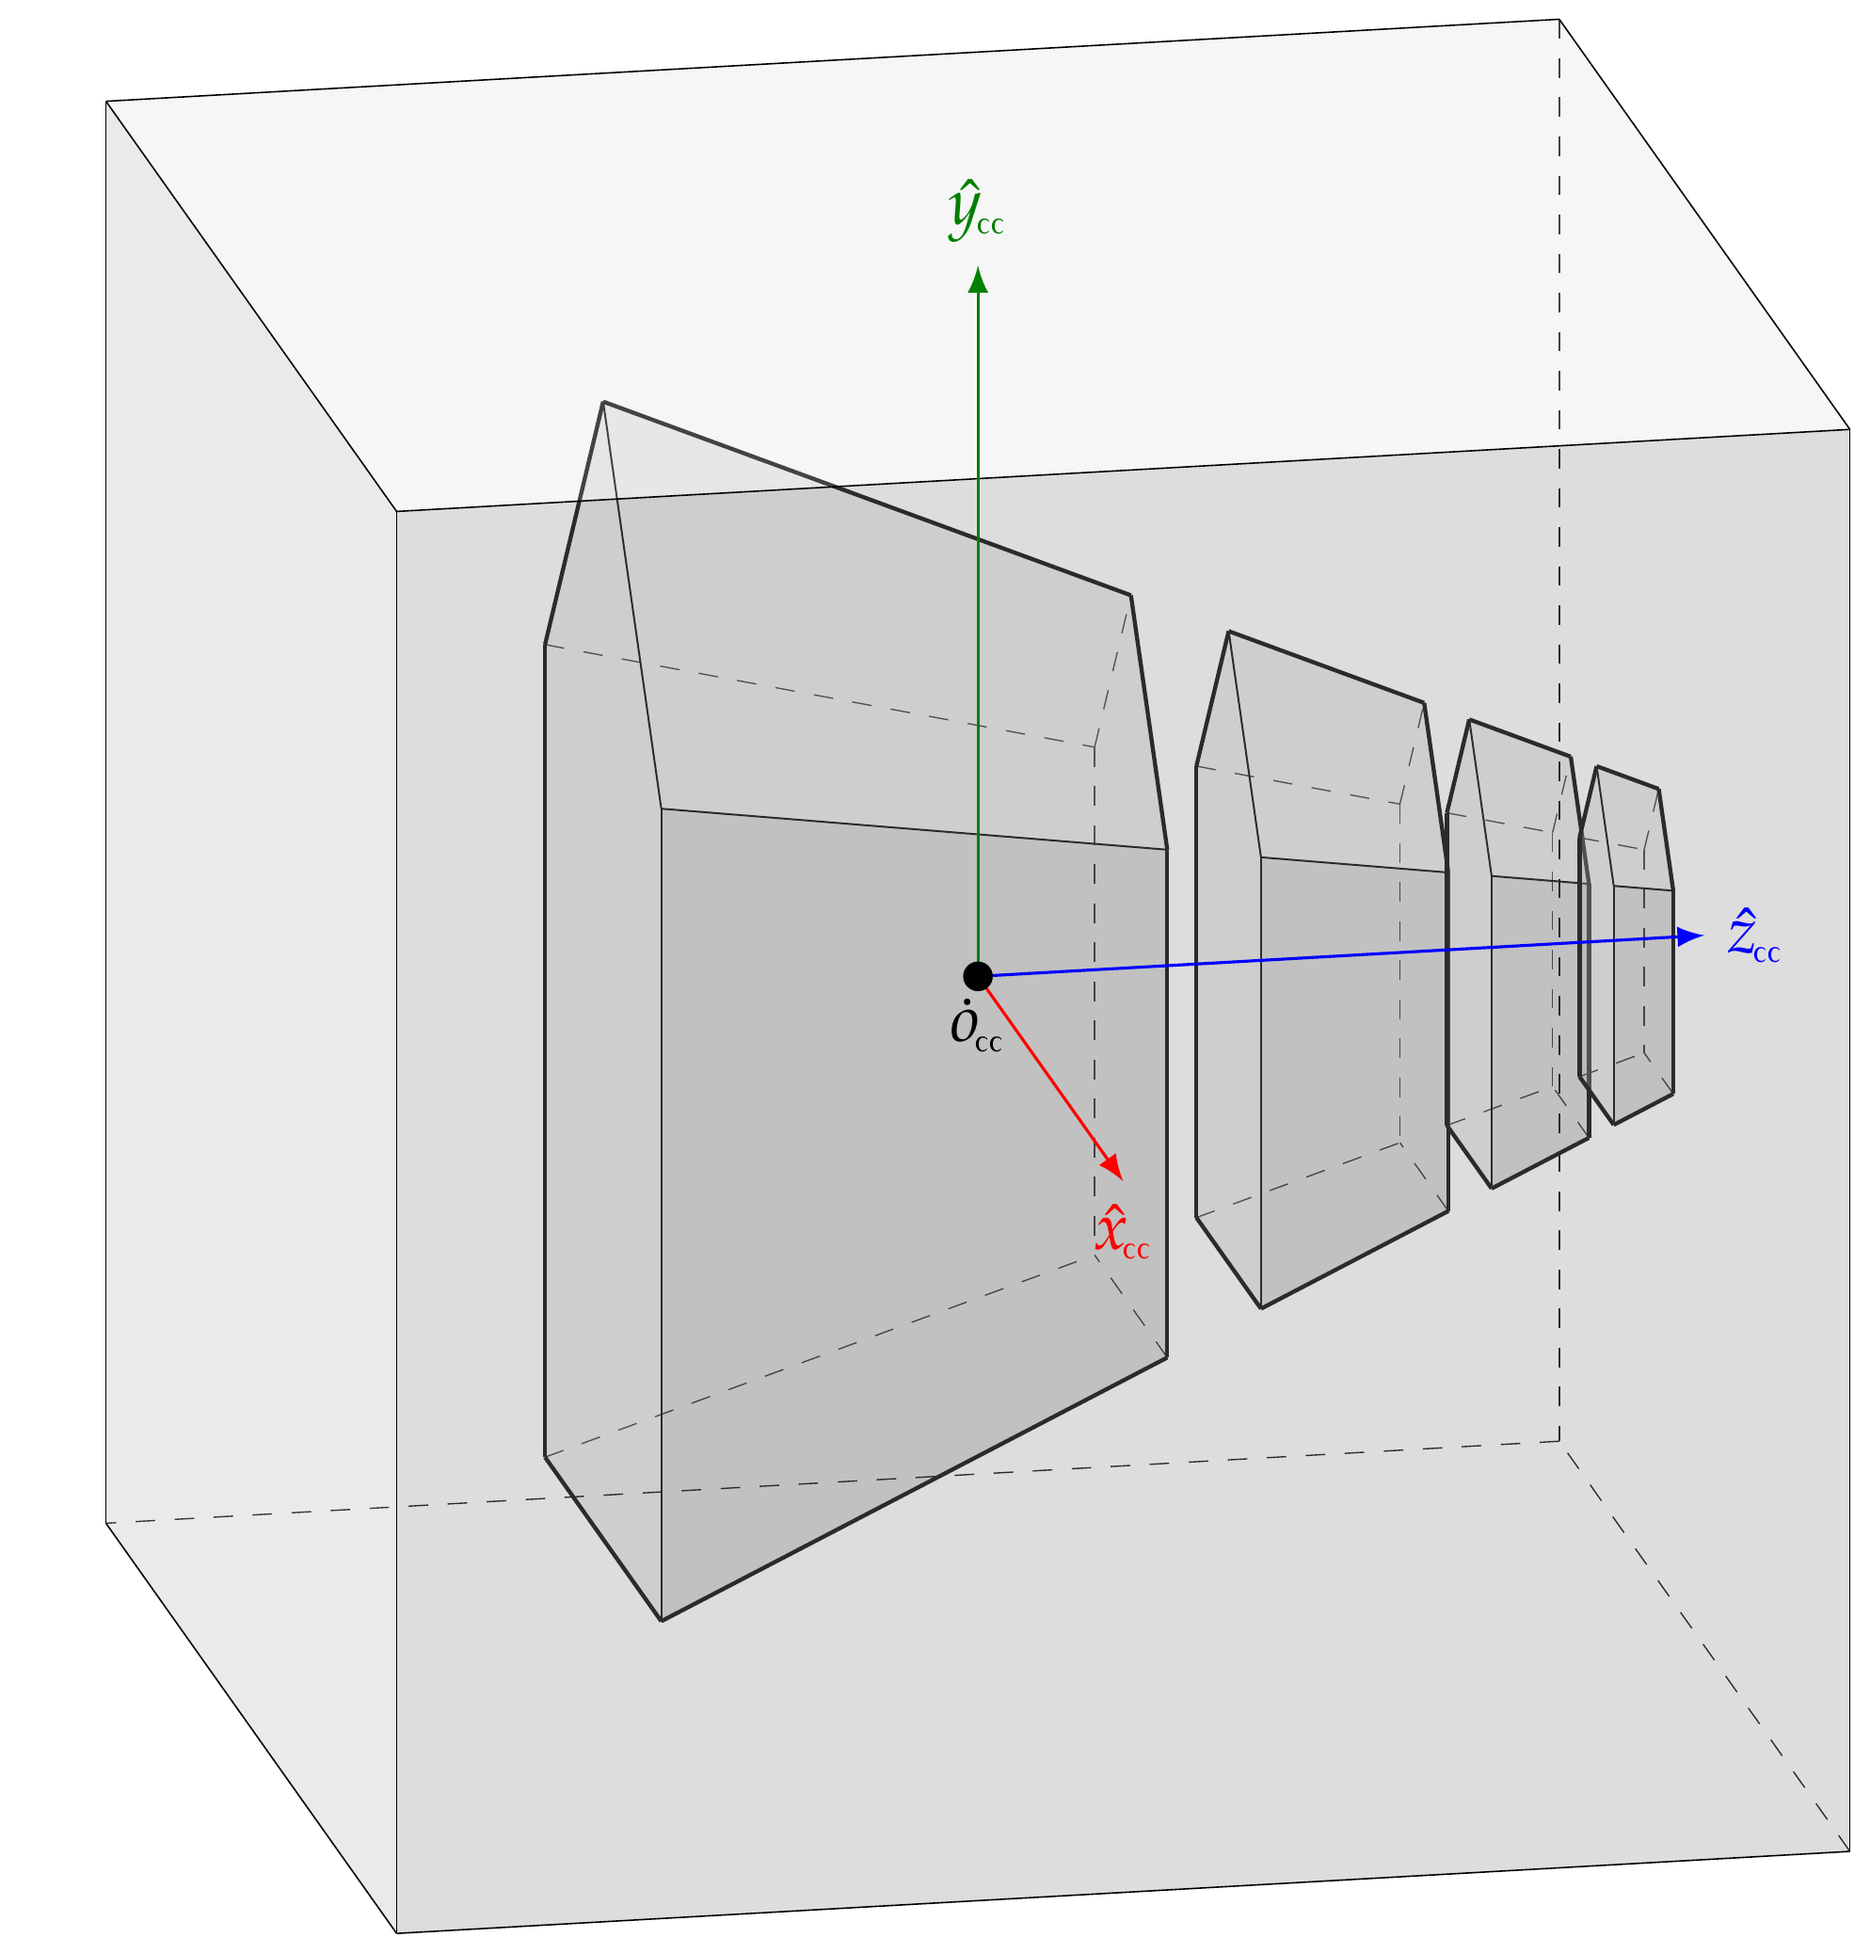
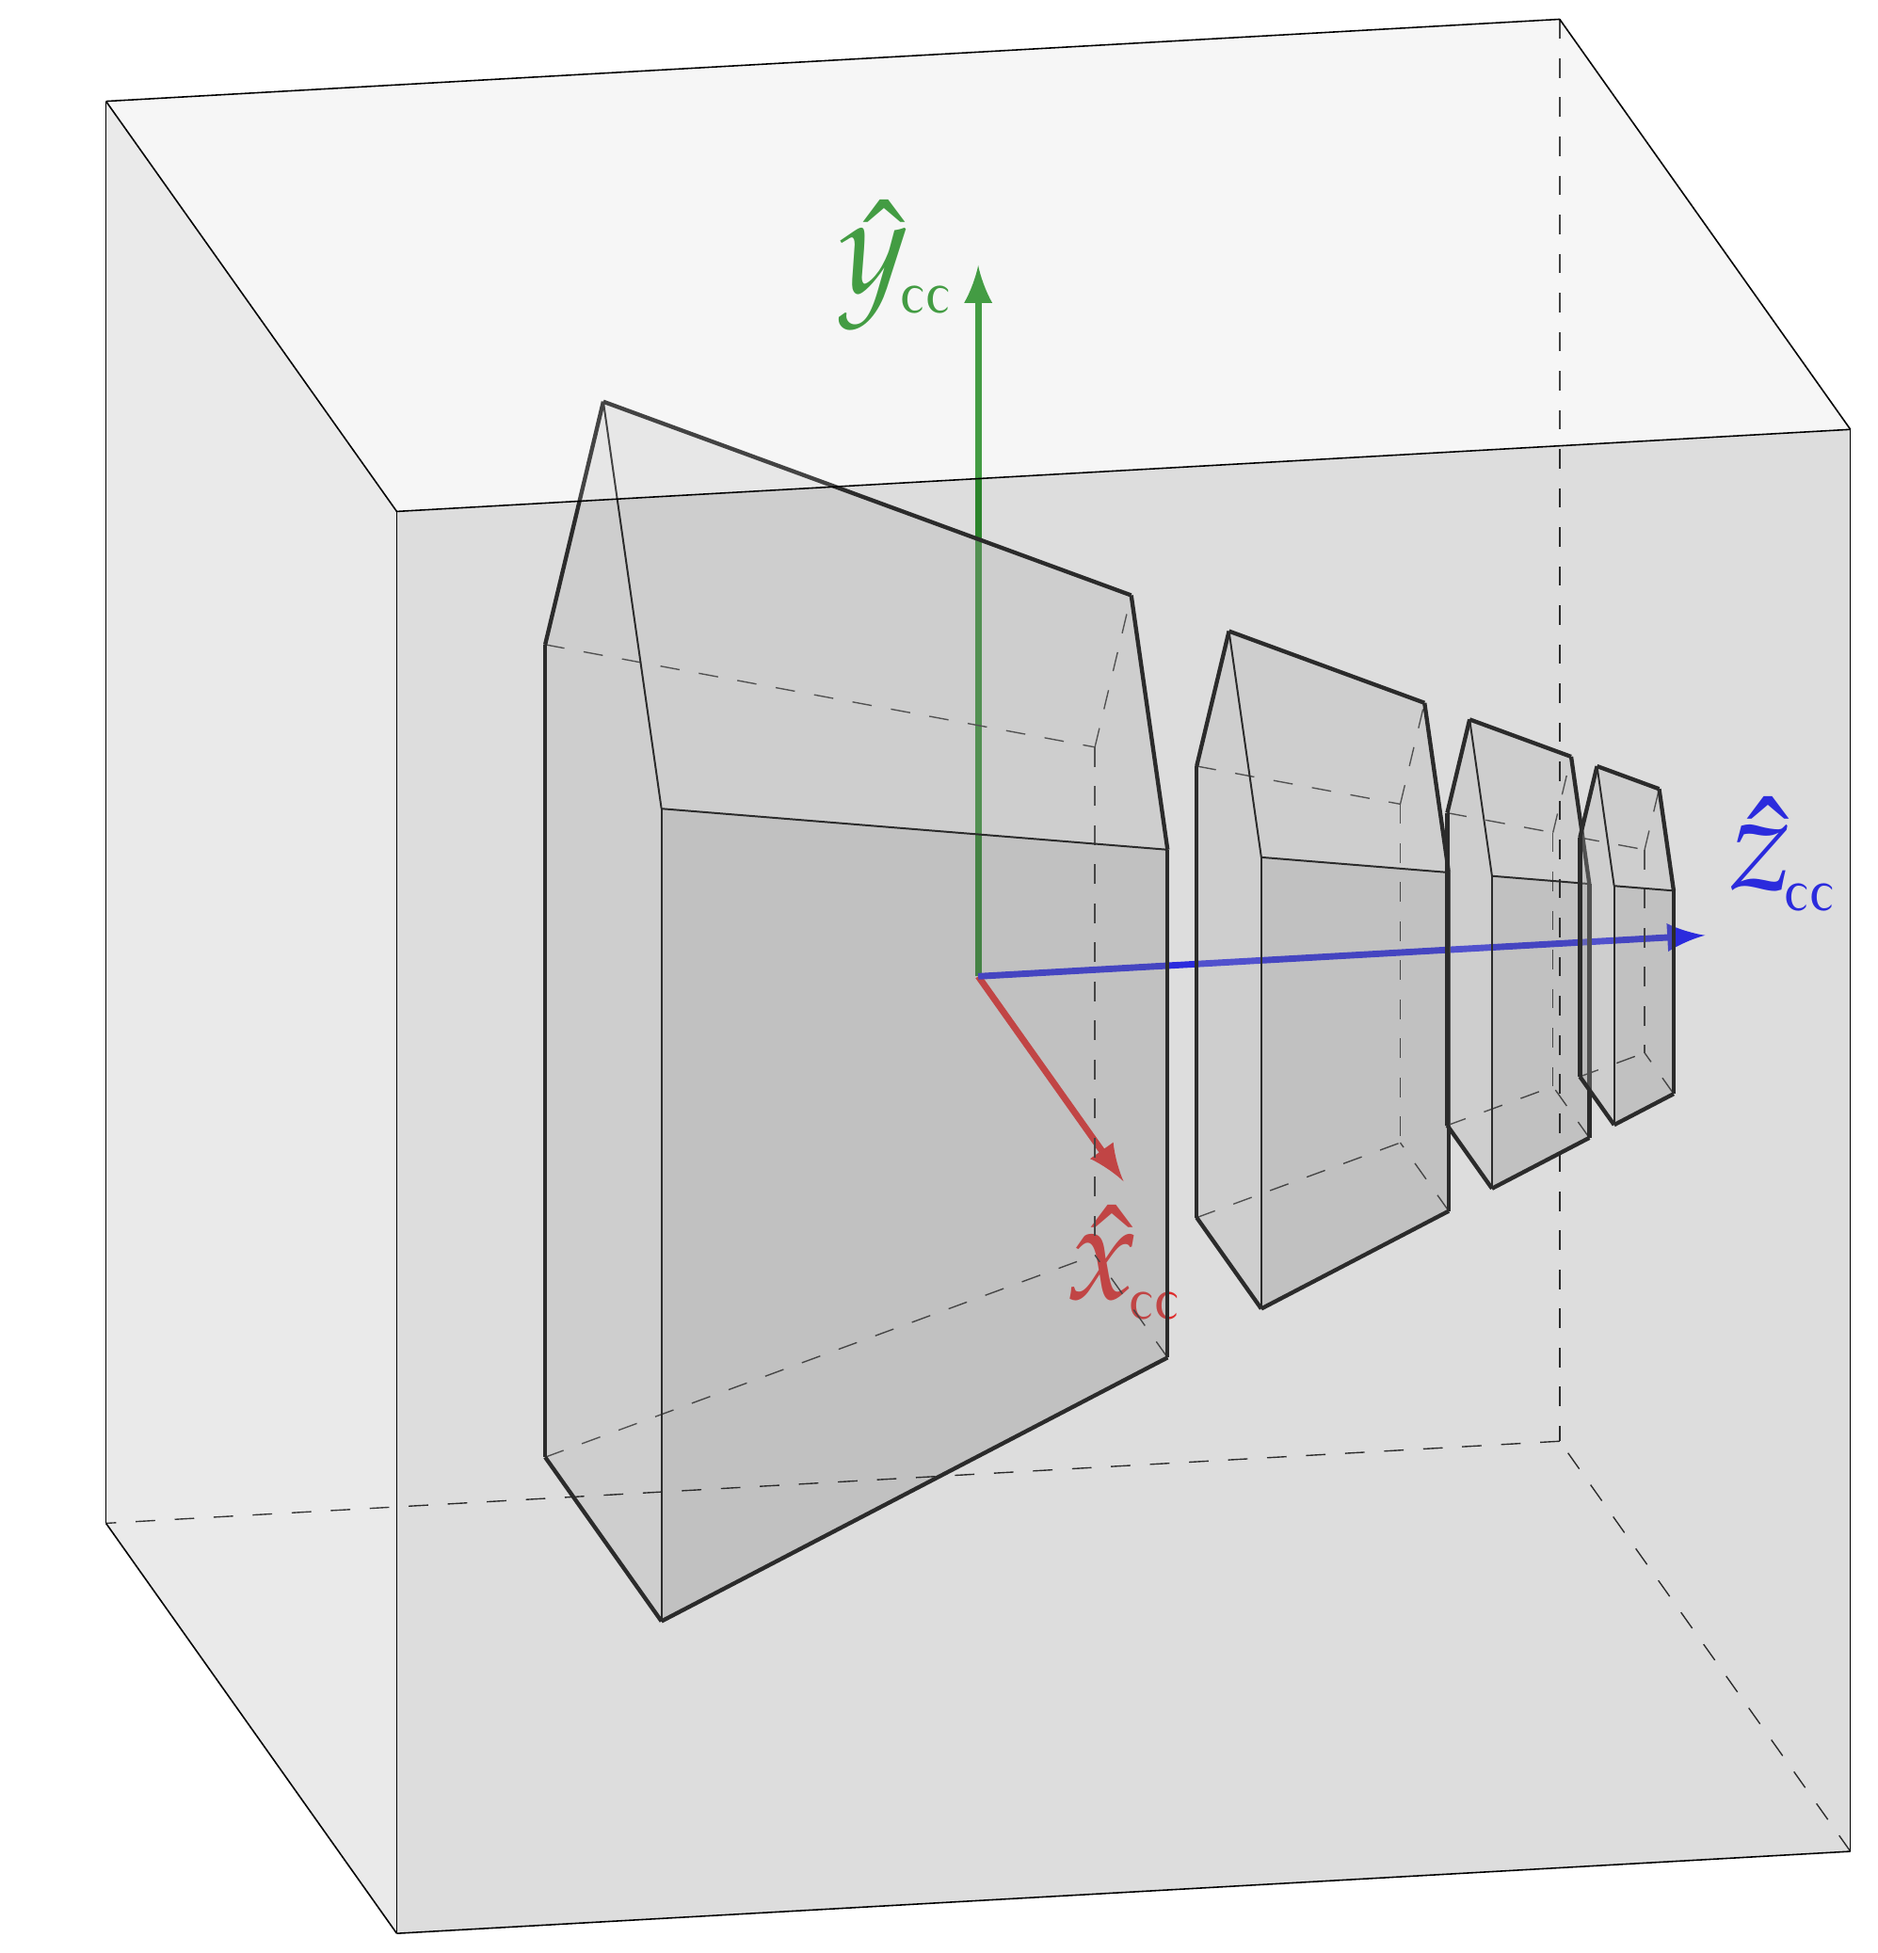
updated figs 9 and 10, minor adjustments

diff --git a/src/fig10-ndc-dc.cpp b/src/fig10-ndc-dc.cpp
@@ -35,17 +35,17 @@ int main( int argc, char *argv[] )
    cubo_cc.draw_style_2( view_vec );
    
    // draw DC grid 
-   const unsigned nx = 8, ny = 8 ;
+   const unsigned nx = 6, ny = 6 ;
 
    for( unsigned ix = 0 ; ix <= nx ; ix++ )
    {
       const float cx = -1.0+2.0*(float(ix)/float(nx)) ;
-      line( {cx,-1.0,+1.0}, {cx,+1.0,+1.0}, "line width=0.1mm,color=black", "" );
+      line( {cx,-1.0,+1.0}, {cx,+1.0,+1.0}, "line width=0.12mm,color=black", "" );
    }
    for( unsigned iy = 0 ; iy <= ny ; iy++ )
    {
       const float cy = -1.0+2.0*(float(iy)/float(ny)) ;
-      line( {-1.0,cy,+1.0}, {+1.0,cy,+1.0}, "line width=0.1mm,color=black", "" );
+      line( {-1.0,cy,+1.0}, {+1.0,cy,+1.0}, "line width=0.12mm,color=black", "" );
    }
 
    for( unsigned ix = 0 ; ix < nx ; ix++ )
@@ -62,25 +62,25 @@ int main( int argc, char *argv[] )
 
    // draw dc axes 
    const float lx = 2.0/nx, ly = 2.0/ny ;
-   const std::string subscript = "{\\mbox{\\tiny\\!dc}}" ;
-   const std::string lw = "line width=0.22mm" ;
+   const std::string subscript = "{\\small\\mbox{\\!dc}}" ;
+   const std::string lw = "line width=0.35mm" ;
 
    
-   line( {-1.0,-1.0,1.0}, {-1.0+lx,-1.0,1.0}, "->,>=latex,color=red," +lw, "node[below] {$\\vux_" + subscript + "$}" );
-   line( {-1.0,-1.0,1.0}, {-1.0,-1.0+ly,1.0}, "->,>=latex,color=green!50!black," +lw , "node[left] {$\\vuy_" + subscript + "$}" );
-   line( {-1.0,-1.0,1.0}, {-1.0,-1.0,-1.0}, "->,>=latex,color=blue," +lw , "node[left] {$\\vuz_" + subscript + "$}" );
+   line( {-1.0,-1.0,1.0}, {-1.0+lx,-1.0,1.0}, "->,>=latex,color=red," +lw, "node[below] {\\huge$\\vux_" + subscript + "$}" );
+   line( {-1.0,-1.0,1.0}, {-1.0,-1.0+ly,1.0}, "->,>=latex,color=green!50!black," +lw , "node[left] {\\huge$\\vuy_" + subscript + "$}" );
+   line( {-1.0,-1.0,1.0}, {-1.0,-1.0,-1.0}, "->,>=latex,color=blue," +lw , "node[above right] {\\huge$\\vuz_" + subscript + "$}" );
    //disk( {-1.0,-1.0,1.0}, "black", "radius=0.2mm", " node[anchor=north east] {$\\pto_" + subscript + "$}" );
 
 
-   disk( {-1.0,-1.0,1.0}, "blue", "radius=0.2mm", " node[anchor=north east] {$(0,0,0)$}" );
-   disk( {+1.0,-1.0,1.0}, "blue", "radius=0.2mm", " node[anchor=north west] {$(n_x,0,0)$}" );
-   disk( {-1.0,+1.0,1.0}, "blue", "radius=0.2mm", " node[anchor=south east] {$(0,n_y,0)$}" );
-   disk( {+1.0,+1.0,1.0}, "blue", "radius=0.2mm", " node[anchor=north west] {$(n_x,n_y,0)$}" );
+   disk( {-1.0,-1.0,1.0}, "blue", "radius=0.2mm", " node[anchor=north east] {\\large$(0,0,0)$}" );
+   disk( {+1.0,-1.0,1.0}, "blue", "radius=0.2mm", " node[anchor=north west] {\\large$(n_x,0,0)$}" );
+   disk( {-1.0,+1.0,1.0}, "blue", "radius=0.2mm", " node[anchor=south east] {\\large$(0,n_y,0)$}" );
+   disk( {+1.0,+1.0,1.0}, "blue", "radius=0.2mm", " node[anchor=north west] {\\large$(n_x,n_y,0)$}" );
 
-   disk( {-1.0,-1.0,-1.0}, "blue", "radius=0.2mm", "node[anchor=west] {$(0,0,1)$}" );
-   disk( {-1.0,+1.0,-1.0}, "blue", "radius=0.2mm", "node[anchor=south] {$(0,n_y,1)$}" );
-   disk( {+1.0,+1.0,-1.0}, "blue", "radius=0.2mm", "node[anchor=west] {$(n_x,n_y,1)$}" );
-   disk( {+1.0,-1.0,-1.0}, "blue", "radius=0.2mm", "node[anchor=west] {$(n_x,0,1)$}" );
+   disk( {-1.0,-1.0,-1.0}, "blue", "radius=0.2mm", "node[anchor=north west] {\\large$(0,0,1)$}" );
+   disk( {-1.0,+1.0,-1.0}, "blue", "radius=0.2mm", "node[anchor=south] {\\large$(0,n_y,1)$}" );
+   disk( {+1.0,+1.0,-1.0}, "blue", "radius=0.2mm", "node[anchor=west] {\\large$(n_x,n_y,1)$}" );
+   disk( {+1.0,-1.0,-1.0}, "blue", "radius=0.2mm", "node[anchor=west] {\\large$(n_x,0,1)$}" );
 
    
    cout 

diff --git a/src/fig09-persp2.cpp b/src/fig09-persp2.cpp
@@ -50,6 +50,17 @@ int main( int argc, char *argv[] )
    define_isometric_proj( view_vec );
    cout << "\\begin{tikzpicture}[scale=4,isometric_proj]" << endl ;
 
+   // draw CC axes 
+   const float lx = 2.0, ly = 2.0 ;
+   const std::string subscript = "{\\small\\mbox{\\!cc}}" ;
+   const std::string lw = "line width=0.35mm" ;
+
+   
+   line( {0.0,0.0,0.0}, {1.0,0.0,0.0}, "->,>=latex,color=red," +lw, "node[below] {\\huge$\\vux_" + subscript + "$}" );
+   line( {0.0,0.0,0.0}, {0.0,1.0,0.0}, "->,>=latex,color=green!50!black," +lw , "node[left] {\\huge$\\vuy_" + subscript + "$}" );
+   line( {0.0,0.0,0.0}, {0.0,0.0,-1.0}, "->,>=latex,color=blue," +lw , "node[above right] {\\huge$\\vuz_" + subscript + "$}" );
+   //disk( {-1.0,-1.0,1.0}, "black", "radius=0.2mm", " node[anchor=north east] {$\\pto_" + subscript + "$}" );
+
    muros_ca_1.draw_style_1( view_vec );
    muros_ca_2.draw_style_1( view_vec );
    muros_ca_3.draw_style_1( view_vec );
@@ -60,7 +71,9 @@ int main( int argc, char *argv[] )
    //line( {0,0,0}, {0,0,-n}, "line width=0.15mm,color=blue!50!red", "" );
 
    // draw axes
-   axes_z_neg( "{\\mbox{\\tiny\\!cc}}" );
+   //axes_z_neg( "{\\mbox{\\tiny\\!cc}}" );
+
+   
    
    cout 
       << "\\end{tikzpicture}"
